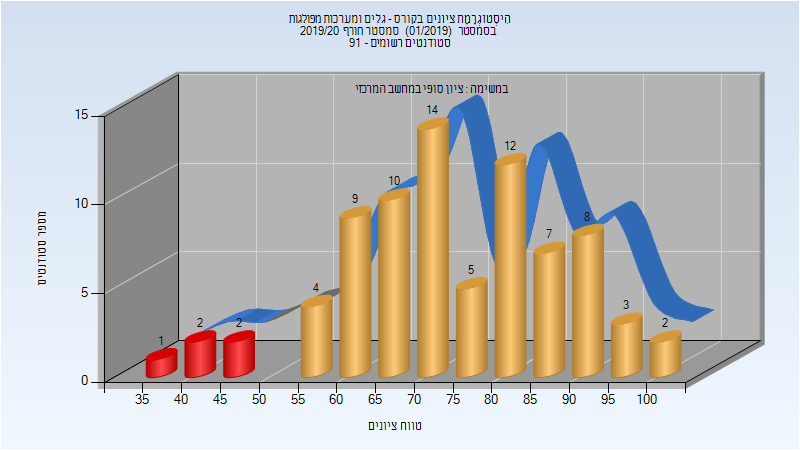
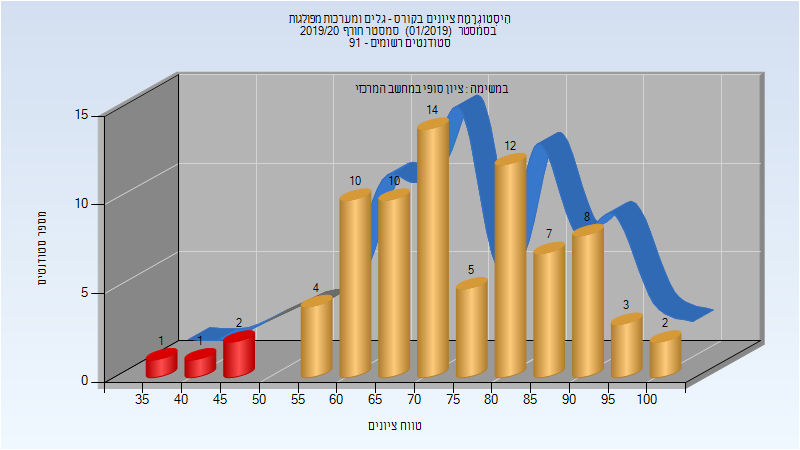
Deploy michael-maltsev/technion-histograms to github.com/michael-maltsev/technion-histograms.git:gh-pages

Changed region(s): [[0.4062, 0.3422, 0.5312, 0.4978], [0.2188, 0.6844, 0.375, 0.8089]]

diff --git a/044148/index.html b/044148/index.html
@@ -675,6 +675,32 @@
 </tbody>
 </table>
 <h2>חורף 2019-2020</h2>
+<table>
+<thead>
+<tr>
+<th>איש סגל</th>
+<th>תפקיד</th>
+</tr>
+</thead>
+<tbody>
+<tr>
+<td>שחם עמית</td>
+<td>מתרגל</td>
+</tr>
+<tr>
+<td>ברטל גיא</td>
+<td>מרצה - אחראי מקצוע</td>
+</tr>
+<tr>
+<td>ח'יר-אלדין יעקב</td>
+<td>מתרגל - עם הרשאות מרצה אחראי</td>
+</tr>
+<tr>
+<td>שרעבי יונתן</td>
+<td>מתרגל - עם הרשאות מרצה אחראי</td>
+</tr>
+</tbody>
+</table>
 <h3>מבחן מועד א'</h3>
 <p><img src="201901/Exam_A.png" alt="201901 Exam_A" /></p>
 <table>
@@ -796,11 +822,11 @@
 <tbody>
 <tr>
 <td>81</td>
-<td>76/5</td>
-<td>94</td>
+<td>77/4</td>
+<td>95</td>
 <td>35</td>
 <td>100</td>
-<td>74.342</td>
+<td>74.57</td>
 <td>72</td>
 </tr>
 </tbody>

diff --git a/324444/index.html b/324444/index.html
@@ -377,6 +377,36 @@
 </tbody>
 </table>
 <h2>חורף 2019-2020</h2>
+<table>
+<thead>
+<tr>
+<th>איש סגל</th>
+<th>תפקיד</th>
+</tr>
+</thead>
+<tbody>
+<tr>
+<td>לויתן יניב</td>
+<td>מרצה - אחראי מקצוע</td>
+</tr>
+<tr>
+<td>בורנשטיין יעל</td>
+<td>סגל מנהלי - עם הרשאות מרצה אחראי</td>
+</tr>
+<tr>
+<td>איסמן ליסה</td>
+<td>סגל מנהלי - עם הרשאות מרצה אחראי</td>
+</tr>
+<tr>
+<td>הראל אילנה</td>
+<td>סגל מנהלי - עם הרשאות מרצה אחראי</td>
+</tr>
+<tr>
+<td>בן ענת רוחמה</td>
+<td>סגל מנהלי - עם הרשאות מרצה אחראי</td>
+</tr>
+</tbody>
+</table>
 <h3>סופי מועד א'</h3>
 <p><img src="201901/Final_A.png" alt="201901 Final_A" /></p>
 <table>

diff --git a/044148/README.md b/044148/README.md
@@ -210,6 +210,13 @@
 
 ## חורף 2019-2020
 
+| איש סגל | תפקיד |
+| ---- | ---- |
+| שחם עמית | מתרגל |
+| ברטל גיא | מרצה - אחראי מקצוע |
+| ח'יר-אלדין יעקב | מתרגל - עם הרשאות מרצה אחראי |
+| שרעבי יונתן | מתרגל - עם הרשאות מרצה אחראי |
+
 ### מבחן מועד א'
 
 ![201901 Exam_A](201901/Exam_A.png)
@@ -248,5 +255,5 @@
 
 | סטודנטים | עברו/נכשלו | אחוז עוברים | ציון מינימלי | ציון מקסימלי | ממוצע | חציון |
 | ---- | ---- | ---- | ---- | ---- | ---- | ---- |
-| 81 | 76/5 | 94 | 35 | 100 | 74.342 | 72 |
+| 81 | 77/4 | 95 | 35 | 100 | 74.57 | 72 |
 

diff --git a/324444/README.md b/324444/README.md
@@ -120,6 +120,14 @@
 
 ## חורף 2019-2020
 
+| איש סגל | תפקיד |
+| ---- | ---- |
+| לויתן יניב | מרצה - אחראי מקצוע |
+| בורנשטיין יעל | סגל מנהלי - עם הרשאות מרצה אחראי |
+| איסמן ליסה | סגל מנהלי - עם הרשאות מרצה אחראי |
+| הראל אילנה | סגל מנהלי - עם הרשאות מרצה אחראי |
+| בן ענת רוחמה | סגל מנהלי - עם הרשאות מרצה אחראי |
+
 ### סופי מועד א'
 
 ![201901 Final_A](201901/Final_A.png)
